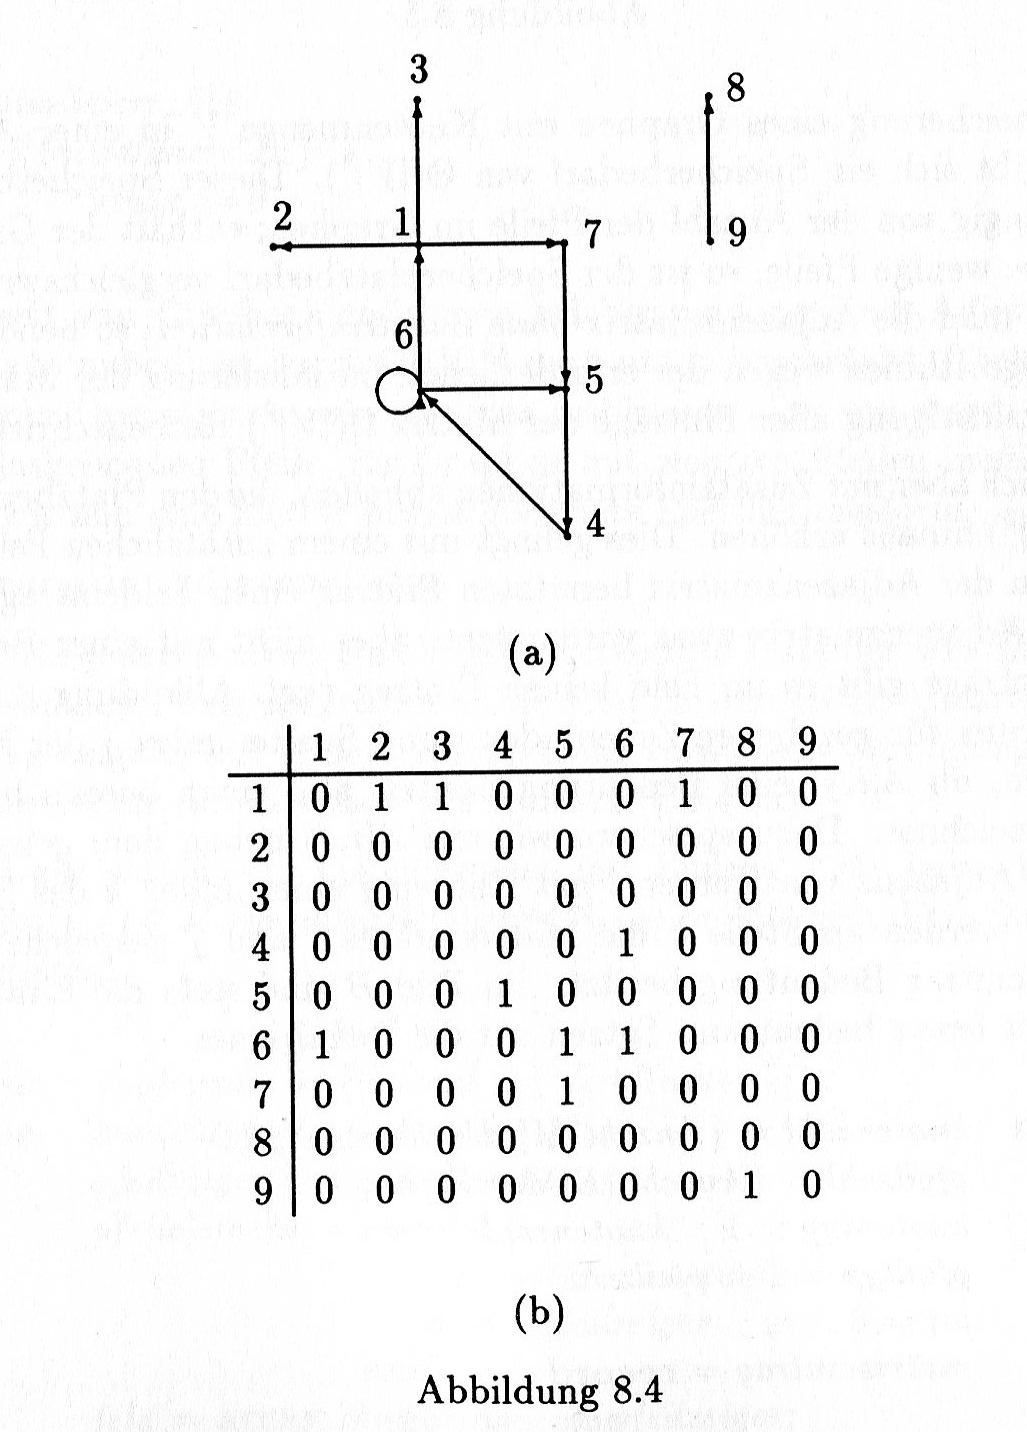
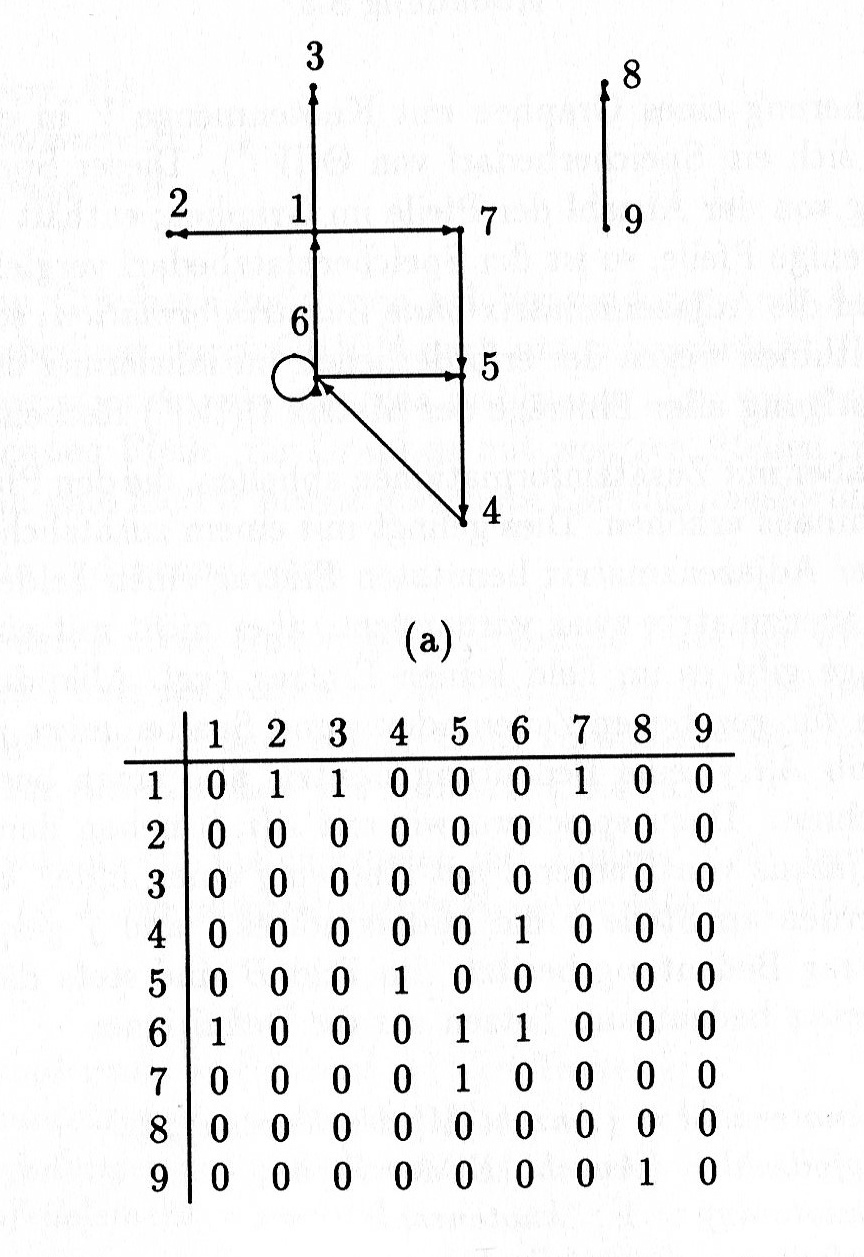
Die Kapitel Graphen und Dijkstra-Algorithmus wurden überarbeitet, zudem sind die ursprünglichen Abbildungsbezeichnungen bei den Abbildungen weg. -Ausblick noch neu schreiben! -Motivation und Kurzfassung?

diff --git a/chapters/Dijktra_Algorithmus.tex b/chapters/Dijktra_Algorithmus.tex
@@ -1,4 +1,4 @@
-\chapter{Dijktra - Algorithmus}
+\chapter{Dijkstra - Algorithmus}
 
 \section{Erklärung}
 
@@ -8,7 +8,7 @@ Es behandelt die Frage, wie man in einem Graphen ausgehend von einem gegebenen A
 
 
 \subsection{Zur Eingabe}
-Die Eingabe besteht stets aus gerichteten Graphen. Hierbei muss jedoch angemerkt werden, dass sich jeder ungerichtete Graph leicht in einen gerichteten Graph umwandeln lässt, indem man für jede Kante \{u,v\} die Kanten (u,v) und (v,u) mit gleichen Kosten einführt.\footnote{Vorlesungsskript Algorithmendesign, Prof.Dr.Heinz Schmitz, Stand 6. April 2015, S.133 Z.8-13} Somit findet der Dijkstra-Algorithmus auch für ungerichtete Graphen Anwendung, solange man sie vorher in einen Digraphen überführt. 
+Die Eingabe besteht stets aus gerichteten Graphen. Hierbei muss jedoch angemerkt werden, dass sich jeder ungerichtete Graph leicht in einen gerichteten Graph umwandeln lässt, indem für jede Kante \{u,v\} die Kanten (u,v) und (v,u) mit gleichen Kosten eingeführt werden.\footnote{Vorlesungsskript Algorithmendesign, Prof.Dr.Heinz Schmitz, Stand 6. April 2015, S.133 Z.8-13} Somit findet der Dijkstra-Algorithmus auch für ungerichtete Graphen Anwendung, solange sie vorher in einen Digraphen überführt werden. 
 
 \parindent0pt Zudem wird davon ausgegangen, dass die Kantenkosten nicht negativ sind.
 
@@ -17,19 +17,20 @@ Dem Dijkstra-Algorithmus liegt das Optimalitätsprinzip zugrunde:
 
 \parindent0pt Für jeden kürzesten Pfad p=(v{\tiny 0},v{\tiny 1},...,v{\tiny k}) von v{\tiny 0} nach v{\tiny k} ist jeder Teilweg p'=(v{\tiny i}, ..., v{\tiny j}) mit $0 \le i < j \le k$ ein kürzester Weg von v{\tiny i} nach v{\tiny j}.
 
-\parindent0pt Das bedeutet kurz gesagt, dass man für alle möglichen Teilpfade annimmt, dass sie optimal sind.
+\parindent0pt Das bedeutet kurz gesagt, dass  für alle möglichen Teilpfade angenommen wird, dass sie optimal sind.
 Dass diese Annahme stimmt, lässt sich mittels Widerspruchbeweis nachweisen: 
 
-\parindent0pt Man geht vom Gegenteil aus, nämlich dem Fall, dass neben dem Pfad p' von v{\tiny i} nach v{\tiny j} ein anderer, kürzerer Pfad p'' von v{\tiny i }nach v{\tiny j} existiert. Dann müsste man p' durch p'' ersetzen (denn p'' ist kürzer). Damit würde sich auch der Gesamtpfad von v{\tiny 0} nach v{\tiny k} verkürzen. Da unser Pfad p von v{\tiny 0} nach v{\tiny k} bereits der kürzeste war, ist das  ein Widerspruch. \footnote{OTTMANN, Thomas; WIDMAYER Peter: Algorithmen und Datenstrukturen, Reihe Informatik Bd. 70, Mannheim: BI-Wissenschaftsverlag, 1990, S.573, Z.1-5}
+\parindent0pt Wird vom Gegenteil ausgegangen, nämlich dem Fall, dass neben dem Pfad p' von v{\tiny i} nach v{\tiny j} ein anderer, kürzerer Pfad p'' von v{\tiny i }nach v{\tiny j} existiert, Dann müsste p' durch p'' ersetzen werden (denn p'' ist kürzer). Damit würde sich auch der Gesamtpfad von v{\tiny 0} nach v{\tiny k} verkürzen. Da unser Pfad p von v{\tiny 0} nach v{\tiny k} bereits der kürzeste war, ist das  ein Widerspruch. \footnote{OTTMANN, Thomas; WIDMAYER Peter: Algorithmen und Datenstrukturen, Reihe Informatik Bd. 70, Mannheim: BI-Wissenschaftsverlag, 1990, S.573, Z.1-5}
 
 
 \subsection{Funktionsweise des Algorithmus}
-Auf welche Weise findet man nun zur optimalen Lösung?
+Auf welche Weise kann eine optimale Lösung gefunden werden?
 Die Grundidee besteht darin, für jeden Knoten die Pfadkosten zu schätzen und die bestehende Lösungsmenge mit dem Knoten zu erweitern, welcher den geringsten Schätzwert aufweist. 
 
 \parindent0pt Diese Arbeitsweise entspricht dem Greedy-Entwurfsmuster (engl. gierig): Nach einem Auswahlkriterium (die sogenannte Greedy-Regel) wird aus einer Menge das Element zur Erweiterung der Lösung gewählt, das den meisten Nutzen verspricht. In diesem Fall ist die Greedy-Regel das Verlangen nach dem kleinsten Schätzwert.
+Auf das Greedy-Prinzip wird in dieser Arbeit jedoch nicht tiefergehend eingegangen.
 
-\parindent0pt Dijkstra geht bei seinem Algorithmus folgendermaßen vor: Er unterteilt die Knoten des Graphen zunächst einmal in drei Gruppen: Die Knoten, deren Schätzwert bereits feststehen ("black nodes"\footnote{DIJKSTRA Edsger W., FEIJEN W.H.J.: A Method of Programming,Cornwall: Addison-Wesley Publishing Company,1988, S.107 Z.24}), deren Nachfolger ("grey nodes"\footnote{vergl. Ebd., S.108, Z.2-3} sowie unerreichbare Knoten, deren Schätzwerte gänzlich unbekannt sind ("white nodes" \footnote{vergl. Ebd., S.108, Z.3}).
+\parindent0pt Dijkstra geht bei seinem Algorithmus folgendermaßen vor: Er unterteilt die Knoten des Graphen zunächst einmal in drei Gruppen: Die Knoten, deren Schätzwert bereits feststehen ("black nodes"\footnote{DIJKSTRA Edsger W., FEIJEN W.H.J.: A Method of Programming,Cornwall: Addison-Wesley Publishing Company,1988, S.107 Z.24}), deren Nachfolger ("grey nodes")\footnote{vergl. Ebd., S.108, Z.2-3} sowie unerreichbare Knoten, deren Schätzwerte gänzlich unbekannt sind ("white nodes" \footnote{vergl. Ebd., S.108, Z.3}).
 
 \begin{figure}[h]
 \centering
@@ -39,15 +40,16 @@ Die Grundidee besteht darin, für jeden Knoten die Pfadkosten zu schätzen und d
 \end{figure}
 
 
-\parindent0pt Wenn keine grauen Knoten vorhanden sind, lässt sich die Lösungsmenge nicht erweitern. 
+\parindent0pt Des besseren Leseflusses wegen, werden die "black nodes", "white nodes" und "grey nodes" in der deutschen Übersetzung verwendet.
+ Wenn keine grauen Knoten vorhanden sind, lässt sich die Lösungsmenge nicht erweitern. 
 
 \parindent0pt Ansonsten muss aus den grauen Knoten einer ausgewählt werden, der schwarz werden soll, d.h. der Knoten, mit dem die Lösungsmenge erweitert wird. Alle vorherigen Pfade bestehen dabei ausschließlich aus schwarzen Knoten, d.h. Knoten die mit endgültig festgelegten Schätzwerten der Lösungsmenge bereits hinzugefügt wurden.
 
-\parindent0pt Um zu bestimmen, welcher graue Knoten gewählt wird muss man die Kosten seines speziellen Pfades bestimmten \footnote{vergl. Ebd., S.108,Z.8-12}, d.h. den Pfad ausgehend vom Startknoten s bis hin zur Kante vom letzten schwarzen Knoten zum aktuellen grauen Knoten. Der Knoten, dessen spezieller Pfad am kostengünstigsten ist, wird in die Menge der schwarzen Knoten aufgenommen und aus der Menge der grauen entfernt. Ist dieser Schritt vollzogen, müssen noch seine Nachfolger behandelt werden. Dabei gibt es für jeden Nachfolger drei Möglichkeiten:
+\parindent0pt Um zu bestimmen, welcher graue Knoten gewählt wird, müssen die Kosten seines speziellen Pfades bestimmt werden \footnote{vergl. Ebd., S.108,Z.8-12}, d.h. den Pfad ausgehend vom Startknoten s bis hin zur Kante vom letzten schwarzen Knoten zum aktuellen grauen Knoten. Der Knoten, dessen spezieller Pfad am kostengünstigsten ist, wird in die Menge der schwarzen Knoten aufgenommen und aus der Menge der grauen entfernt. Ist dieser Schritt vollzogen, müssen noch seine Nachfolger behandelt werden. Dabei gibt es für jeden Nachfolger drei Möglichkeiten:
 
 \parindent0pt Fall 1: Der Nachfolger ist weiß, d.h. er hat noch keinen Schätzwert. Dann wird dieser jetzt bestimmt und der Knoten wird grau.
 
-\parindent0pt Fall 2: Der Nachfolger ist grau. Dann muss verglichen werden, ob der aktuelle Schätzwert geringer ist als der vorherige, und wenn dies zutrifft, wird der Wert entsprechend aktualisiert. (Das ist immer dann der Fall, wenn man einen kostengünstigeren Pfad für den entsprechenden Knoten gefunden hat.)
+\parindent0pt Fall 2: Der Nachfolger ist grau. Dann muss verglichen werden, ob der aktuelle Schätzwert geringer ist als der vorherige, und wenn dies zutrifft, wird der Wert entsprechend aktualisiert. Das ist immer dann der Fall, wenn ein kostengünstigerer Pfad für den entsprechenden Knoten gefunden wurde.
 
 \parindent0pt Fall 3: Der Nachfolger ist schwarz. Dann steht sein Schätzwert bereits fest und er kann ignoriert werden.
 
@@ -70,7 +72,7 @@ Um dies umzusetzen, geht Dijkstra folgendermaßen vor: In einem Array werden die
 
 \parindent0pt Der Algorithmus terminiert, wenn alle grauen Knoten abgearbeitet sind bzw. wenn der letzte Knoten schwarz ist. \\
 
-Natürlich muss man nicht exakt wie Dijkstra vorgehen und die entsprechenden Farbstufen speichern. Man kann den Algorithmus auch umsetzen, indem man die Schätzwerte in einem Array speichert und die Knoten in einer Menge Q. Am Anfang setzt man alle Schätzwerte auf undefiniert (das entspricht den weißen Knoten). Die Knoten aus Q, deren Schätzwert feststeht, werden aus Q entfernt (d.h. die schwarzen Knoten entsprechen V/Q). Alle übrigen Knoten in der Menge sind mit den grauen Knoten gleichzusetzen (vorläufige Schätzwerte). Das grundlegende Vorgehen ist bei einer solchen Implementierung gleich. 
+Natürlich kann auch eine Alternative zu Dijkstras Vorgehen mit Speicherung der Farbstufen gewählt werden. Der Algorithmus kann auch umsetzen werden, indem die Schätzwerte in einem Array gespeichert werden und die Knoten in einer Menge Q. Am Anfang werden alle Schätzwerte auf undefiniert gesetzt, das entspricht den weißen Knoten. Die Knoten aus Q, deren Schätzwert feststeht, werden aus Q entfernt, d.h. die schwarzen Knoten entsprechen der Differenz zwischen V und Q (V/Q). Alle übrigen Knoten in der Menge sind mit den grauen Knoten gleichzusetzen, welche jedoch erst vorläufige Schätzwerte darstellen. Das grundlegende Vorgehen ist bei einer solchen Implementierung gleich. 
 
 
 
@@ -78,26 +80,29 @@ Natürlich muss man nicht exakt wie Dijkstra vorgehen und die entsprechenden Far
 
 \subsection{Ursprüngliche Implementierung}
 
+Der folgende Abschnitt bezieht sich direkt auf Dijkstras eigene Implementierung, die von Ottman und Widmayer aufgegriffen wurde /footnote{Vgl. }
 Das Initialisieren der Arrays benötigt jeweils $O(m)$ Schritte, wobei m die Kardinalität der Knotenmenge des Graphen ist.
 Die äußere Schleife arbeitet alle grauen Knoten ab und benötigt daher ebenfalls $O(m)$ Schritte. Das Bestimmen des Minimums braucht ebenfalls $O(m)$ Schritte.
-Das Aktualisieren der Nachfolger benötigt $O(deg(v))$ Schritte, also die Anzahl der ausgehenden Kanten des Knotens v, die maximal k beträgt (Gesamtzahl Kanten). Da in jedem Fall gilt, dass k < m (jede Kante mündet in 2 Knoten), können wir dies vernachlässigen, ebenso wie die übrigen Operationen, die konstant sind.
+Das Aktualisieren der Nachfolger benötigt $O(deg(v))$ Schritte, also die Anzahl der ausgehenden Kanten des Knotens v, die maximal k beträgt (Gesamtzahl Kanten). Da in jedem Fall gilt, dass k &<& m (jede Kante mündet in zwei Knoten), kann dies vernachlässt werden, ebenso wie die übrigen verwendeten Operationen, die konstant sind.
 Insgesamt ergibt sich so eine Laufzeit von $O(m^{2})$,\footnote{OTTMANN, Thomas; WIDMAYER Peter: Algorithmen und Datenstrukturen, Reihe Informatik Bd. 70, Mannheim: BI-Wissenschaftsverlag, 1990,S.576,Z.13} da m mal das Minimum in $O(m)$ bestimmt wird.
 Das ist bei dünnen Graphen, also Graphen mit wenig Kanten im Verhältnis zur Knotenzahl sehr ineffizient. Im Vergleich zu günstigeren Implementierungen ist die Laufzeit recht hoch.
 
 \subsection{Implementierung mit Heap}
-Die von Dijkstra vorgeschlagene Implementierung lässt sich verbessern, indem man zur Speicherung der grauen Knoten einen Heap einsetzt, denn in einem Heap lässt sich das Bestimmen des Minimums und dessen Entfernen in $O(log m)$ bestimmen.
+Die von Dijkstra vorgeschlagene Implementierung lässt sich verbessern, indem zur Speicherung der grauen Knoten ein Heap eingesetzt wird, denn in einem Heap lässt sich das Bestimmen des Minimums und dessen Entfernen in $O(log m)$ bestimmen.
 
 \parindent0pt Das Einfügen eines Elementes beträgt ebenfalls $O(log m)$ Schritte.
 
-\parindent0pt Zwar ist das gezielte Löschen von Knoten mit veralteten Werten nicht möglich, sodass eventuell mehrere Knoten mit gleichen Werten existieren, dies ist jedoch nicht weiter schlimm, "wenn man für jeden Knoten nur die erste Entnahme dieses Knotens aus dem Heap beachtet und alle weiteren ignoriert".\footnote{vergl. Ebd.S.576 Z.29-31} Damit dies funktioniert, muss man speichern, welche Knoten bereits betrachtet wurden und welche nicht.
+\parindent0pt Zwar ist das gezielte Löschen von Knoten mit veralteten Werten nicht möglich, sodass eventuell mehrere Knoten mit gleichen Werten existieren, dies ist jedoch nicht weiter schlimm, "wenn man für jeden Knoten nur die erste Entnahme dieses Knotens aus dem Heap beachtet und alle weiteren ignoriert".\footnote{vergl. Ebd.S.576 Z.29-31} Damit dies funktioniert, muss  gespeichert werden, welche Knoten bereits betrachtet wurden und welche nicht.
 
 \parindent0pt Jede Kante erhält maximal einen Eintrag im Heap, also enthält dieser nie mehr als k Kanten. Damit kostet das Einfügen $k*log(m)$ Rechenschritte, ebenso wie das Entfernen. Somit ergibt sich für die Implementierung mit Heap eine Laufzeit von $O(k*log(m))$\footnote{vergl. Ebd., S. 576 Z.36}, was den Algorithmus bei dünnen Graphen sehr effizient macht.
-Bei sehr dichten Graphen mit $k = \Omega (m^{2})$ schneidet der ursprüngliche Dijkstra dagegen besser ab.
+Bei sehr dichten Graphen, also Graphen mit vielen Kanten,  mit $k = \Omega (m^{2})$ schneidet der ursprüngliche Dijkstra dagegen besser ab.
 
 \parindent0pt Durch die Verwendung eines speziellen Heaps, dem Fibonacci-Heap, lässt sich eine Laufzeit von $O(k + m * log(m))$ \footnote{vergl. Ebd., S.577 Z.10} erreichen, wodurch die Implementierung mit einem Heap auch bei dichten Graphen effizienter ist.
 
 
 \section{Implementierung}
+
+\Das folgende Codebeispiel bezieht sich auf die bereits beschriebene Implementierung mit Heap /footnote{Vgl. Abs. 3.2.2, "Implementierung mit Heap"}
 
 \lstset{language=Python}
 \begin{lstlisting}
@@ -151,12 +156,12 @@ Es stellt sich natürlich die Frage nach dem praktischen Nutzen des Dijkstra-Alg
 \parindent0pt Allgemein gesprochen ist dies überall, wo Routenplanung vonnöten ist.
 
 \parindent0pt
-Das kann z.B. Warentransport aller Art sein. Ganz gleich, ob man die Güter per Flugzeug, Bahn oder LKW transportiert, die Routen in dem jeweiligen Verkehrsnetz müssen entsprechend geplant werden, damit die Waren schnell und günstig am Zielort ankommen. Die Kosten einer Route müssen dabei nicht unbedingt die Entfernung an sich sein, auch andere Faktoren wie z.B. Mautkosten können hinzukommen. Diese spiegeln sich dann in den Kantenkosten wieder.
+Das kann z.B. Warentransport aller Art sein. Ganz gleich, ob der Transport der Güter per Flugzeug, Bahn oder LKW geschieht, die Routen in dem jeweiligen Verkehrsnetz müssen entsprechend geplant werden, damit die Waren schnell und günstig am Zielort ankommen. Die Kosten einer Route müssen dabei nicht unbedingt die Entfernung an sich sein, auch andere Faktoren wie z.B. Mautkosten können hinzukommen. Diese spiegeln sich dann in den Kantenkosten wieder.
 
 \parindent0pt Was für Warentransport gilt, lässt sich auch auf den Personentransport übertragen. Wer eine möglichst günstige Reiseroute sucht, mit der er sein Reiseziel am schnellsten erreicht, kann diese mit Dijkstra errechnen.
 
 \parindent0pt Ein weiteres bedeutendes Anwendungsfeld ist Routing bei Rechnernetzen. Auf der Ebene der Vermittlungsschicht werden Pakete von der Quelle zum Ziel weitergeleitet. Dieser Weg besteht aus mehreren Teilstrecken, sogenannten Hops. \footnote{TANENBAUM,Andrew; WETHERALL, David: Computernetzwerke, München: Pearson Deutschland GmbH,2012, Kap. 5.2 Routing Algorithmen, S.420 Z. 1-7} Zur Auswahl dieser Hops wird unter anderem Dijkstra verwendet. 
 
 \parindent0pt
-Als Maß zur Bewertung der Teilstrecken kann die Anzahl der Teilstrecken gewählt werden, was allerdings sehr unpräzise ist, oder die physikalische Entfernung. Ein anderes Maß stellt die mittlere Übertragungszeit einer Teilstrecke für ein Paket dar. Die mittlere Übertragungszeit muss dazu regelmäßig aktualisiert werden. Im letzten Fall wäre der "kürzeste" Pfad der schnellste.\footnote{Ebd.,S.424, Z.1-5}
+Als Maß zur Bewertung der Teilstrecken kann deren Anzahl gewählt werden, was allerdings bedingt durch das Fehlen weiterer Informationen (beispielsweise Bandbreite) unpräzise ist, oder die physikalische Entfernung. Ein anderes Maß stellt die mittlere Übertragungszeit einer Teilstrecke für ein Paket dar. Die mittlere Übertragungszeit muss dazu regelmäßig aktualisiert werden. Im letzten Fall wäre der "kürzeste" Pfad der schnellste.\footnote{Ebd.,S.424, Z.1-5}
 Allgemein werden die Kosten jedoch als "Funktion von Entfernung, Bandbreite, Durchschnittsverkehr, Übertragungskosten, gemessener Übertragungszeit und weiterer Faktoren"\footnote{Ebd.,S.424 Z.6-8} berechnet.

diff --git a/chapters/Graphen.tex b/chapters/Graphen.tex
@@ -4,8 +4,7 @@
 \section{Definition Graph}
 
 
--Für Dijkstra auf gerichtete Graphen ausgelegt.
-
+\begin{theorem}
 Ein \textbf{Graph} G besteht aus einer Menge X [deren Elemente Knotenpunkte genannt werden] und einer Menge U, wobei jedem Element u $\in$ U in eindeutiger Weise ein geordnetes oder ungeordnetes Paar von [nicht notwendig verschiedenen] Knotenpunkten, x,y $\in$ X zugeordnet ist.
 Ist jedem u $\in$ U ein geordnetes Paar von Knoten zugeordnet, so heißt der Graf \textbf{gerichtet}, und wir schreiben 
 	$G= (X, U)$.
@@ -14,15 +13,19 @@ Die Elemente von U werden in diesem Fall als \textbf{Bögen} bezeichnet.
 Ist jedem u $\in$ U ein ungeordnetes Paar von Knotenpunkten zugeordnet, so heißt der Graph \textbf{ungerichtet} und wir schreiben 
 	$G=[X,U]$. 
 Die Elemente von U bezeichnen wir dann als \textbf{Kanten.}
- \footnote{\cite{Bieß:9}}
+\end{theorem} \footnote{Bieß, Graphentheorie, S.9}\\
+
+[Grafik hier einfügen]
 
 
-Ein gerichteter Graph besteht somit aus einer Menge aus geordneten Knotenpunkten. Dadurch, das diese Punkte geordnet sind, ist eine Verlaufsrichtung festgelegt, in welcher der Graph zeigt.
-Somit kann sich eine geometrische Figur ergeben.
+Ein gerichteter Graph, auch Digraph genannt,  besteht somit aus einer Menge aus geordneten Knotenpunkten \footnote{Ottman, Datenstrukturen und Algorithmen, S590}. Dadurch, dass diese Punkte geordnet sind, also zu jedem Element U genau ein Paar Knotenpunkte zugeordnet wird, ist eine Verlaufsrichtung festgelegt, in welcher der Graph zeigt.
 
+Die Verbindungslinien zwischen zwei Knotenpunkten werden Kanten genannt, welchen Kosten zugeordnet sind. Diese Kosten sind im Vornherein festgelegte, nicht negative Werte. Sie sind  nicht mit der Kantenlänge zu verwechseln.
 
-Wenn man diese Punkte als Richtungen nun als Straßennetz sähe, würde sich durch die Punkte ein Straßenverlauf abbilden mit unterschiedlichen Verlaufsrichtungen.
-Somit verbünde nicht jede Strecke direkt jeden Punkt. Um jenen kürzesten Weg zu finden, der zwei bestimmte Punkte miteinander verbindet, kann man den Dijkstra-Algorithmus anwenden, welcher im Folgenden erklärt wird.
+Somit kann sich eine geometrische Figur ergeben.\\
+
+Weiterhin gibt es auch ungerichtete Graphen, welche jedoch in dieser Ausarbeitung keine Bedeutung haben und somit an dieser Stelle nicht weiter erläutert werden.
+In der folgenden Arbeit wird jedoch mit anderen Bezeichnungen gearbeitet. Anstelle von der von Gieß gebrauchten Bezeichnung G=(X,U), wird G=(V,E) verwendet.
 
 
 

diff --git a/chapters/Graph_Definition.tex b/chapters/Graph_Definition.tex
@@ -3,7 +3,6 @@
 \section{Definition Graph}
 
 
--Für Dijkstra auf gerichtete Graphen ausgelegt.
 
 \begin{theorem}
 Ein \textbf{Graph} G besteht aus einer Menge X [deren Elemente Knotenpunkte genannt werden] und einer Menge U, wobei jedem Element u $\in$ U in eindeutiger Weise ein geordnetes oder ungeordnetes Paar von [nicht notwendig verschiedenen] Knotenpunkten, x,y $\in$ X zugeordnet ist.
@@ -14,16 +13,23 @@ Die Elemente von U werden in diesem Fall als \textbf{Bögen} bezeichnet.
 Ist jedem u $\in$ U ein ungeordnetes Paar von Knotenpunkten zugeordnet, so heißt der Graph \textbf{ungerichtet} und wir schreiben 
 	$G=[X,U]$. 
 Die Elemente von U bezeichnen wir dann als \textbf{Kanten.}
-\end{theorem} \footnote{Bieß, Graphentheorie, S.9}1}
-
-
-Ein gerichteter Graph besteht somit aus einer Menge aus geordneten Knotenpunkten. Dadurch, das diese Punkte geordnet sind, ist eine Verlaufsrichtung festgelegt, in welcher der Graph zeigt.
-Somit kann sich eine geometrische Figur ergeben.
-
+\end{theorem} \footnote{Bieß, Graphentheorie, S.9}\\
 
 [Grafik hier einfügen]
 
 
-Wenn man diese Punkte als Richtungen nun als Straßennetz sähe, würde sich durch die Punkte ein Straßenverlauf abbilden mit unterschiedlichen Verlaufsrichtungen.
-Somit verbünde nicht jede Strecke direkt jeden Punkt. Um jenen kürzesten Weg zu finden, der zwei bestimmte Punkte miteinander verbindet, kann man den Dijkstra-Algorithmus anwenden, welcher im Folgenden erklärt wird.
+Ein gerichteter Graph, auch Digraph genannt,  besteht somit aus einer Menge aus geordneten Knotenpunkten \footnote{Ottman, Datenstrukturen und Algorithmen, S590}. Dadurch, dass diese Punkte geordnet sind, also zu jedem Element U genau ein Paar Knotenpunkte zugeordnet wird, ist eine Verlaufsrichtung festgelegt, in welcher der Graph zeigt.
+
+Die Verbindungslinien zwischen zwei Knotenpunkten werden Kanten genannt, welchen Kosten zugeordnet sind. Diese Kosten sind im Vorneherein festgelegte, nicht negative Werte. Sie sind  nicht mit der Kantenlänge zu verwechseln.
+
+Somit kann sich eine geometrische Figur ergeben.\\
+
+Weiterhin gibt es auch ungerichtete Graphen, welche jedoch in dieser Ausarbeitung keine Bedeutung haben und somit an dieser Stelle nicht weiter erläutert werden.
+In der folgenden Arbeit wird jedoch mit anderen Bezeichnungen gearbeitet. Anstelle von der von Gieß gebrauchten Bezeichnung G=(X,U), wird G=(V,E) verwendet.
+
+
+
+
+
+
 
